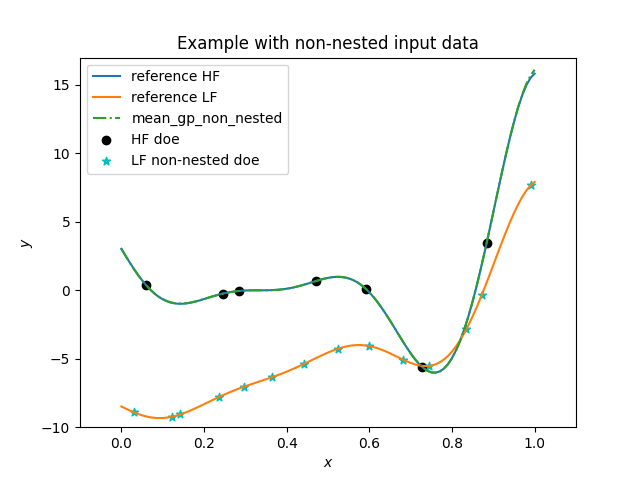
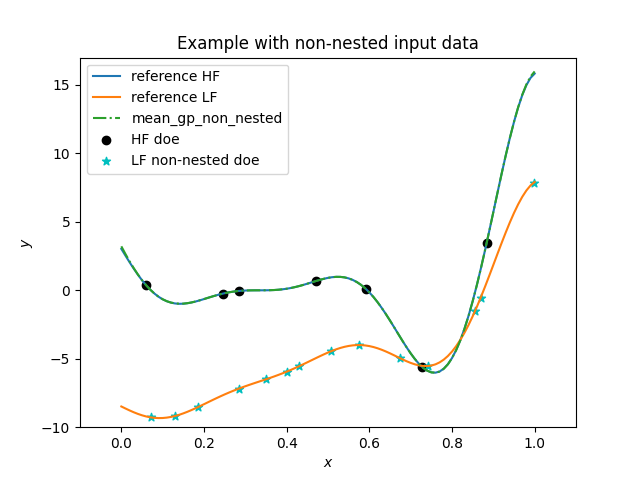
Update of the example in the documentation eliminating the usage of NestedLHS

diff --git a/smt/applications/tests/test_mfck.py b/smt/applications/tests/test_mfck.py
@@ -77,7 +77,6 @@ class TestMFCK(SMTestCase):
         import numpy as np
 
         from smt.applications.mfck import MFCK
-        from smt.applications.mfk import NestedLHS
         from smt.sampling_methods import LHS
 
         # low fidelity model
@@ -101,15 +100,10 @@ class TestMFCK(SMTestCase):
 
         # Problem set up
         xlimits = np.array([[0.0, 1.0]])
-        xdoes = NestedLHS(nlevel=2, xlimits=xlimits, random_state=rnd_state)
-
-        # Example with nested input data
-        xt_c, xt_e = xdoes(7)
-
-        # Evaluate the HF function
-        yt_e = hf_function(xt_e)
 
         # Example with non-nested input data
+        Obs_HF = 7  # Number of observations of HF
+        Obs_LF = 14  # Number of observations of LF
 
         # Creation of LHS for non-nested LF data
         sampling = LHS(
@@ -118,20 +112,22 @@ class TestMFCK(SMTestCase):
             random_state=rnd_state,
         )
 
-        xt_c_non = sampling(xt_c.shape[0])
+        xt_e_non = sampling(Obs_HF)
+        xt_c_non = sampling(Obs_LF)
 
         # Evaluate the LF function
+        yt_e_non = hf_function(xt_e_non)
         yt_c_non = lf_function(xt_c_non)
 
         sm_non_nested = MFCK(
-            theta0=xt_e.shape[1] * [0.5], theta_bounds=[1e-2, 100], corr="squar_exp"
+            theta0=xt_e_non.shape[1] * [0.5], theta_bounds=[1e-2, 100], corr="squar_exp"
         )
         sm_non_nested.options["lambda"] = 0.0  # Without regularization
 
         # low-fidelity dataset names being integers from 0 to level-1
         sm_non_nested.set_training_values(xt_c_non, yt_c_non, name=0)
         # high-fidelity dataset without name
-        sm_non_nested.set_training_values(xt_e, yt_e)
+        sm_non_nested.set_training_values(xt_e_non, yt_e_non)
 
         # train the model
         sm_non_nested.train()
@@ -145,7 +141,7 @@ class TestMFCK(SMTestCase):
         plt.plot(x, hf_function(x), label="reference HF")
         plt.plot(x, lf_function(x), label="reference LF")
         plt.plot(x, m_non_nested[1], linestyle="-.", label="mean_gp_non_nested")
-        plt.scatter(xt_e, yt_e, marker="o", color="k", label="HF doe")
+        plt.scatter(xt_e_non, yt_e_non, marker="o", color="k", label="HF doe")
         plt.scatter(
             xt_c_non, yt_c_non, marker="*", color="c", label="LF non-nested doe"
         )

diff --git a/doc/_src_docs/applications/mfck.rst b/doc/_src_docs/applications/mfck.rst
@@ -14,6 +14,7 @@ is a scaling/correlation factor (constant for MFCK) and :math:`\delta(\cdot)` is
 
 The additive AR1 formulation was first introduced by Kennedy and O'Hagan [1]_.
 While MFK follows the recursive formulation of Le Gratiet [2]_. MFCK uses ab block-wise matrix construction for :math:`n` levels of fidelity offering freedom in terms of data input assumptions.
+This formulation can use non-nested input data.
 
 References
 ----------
@@ -29,7 +30,6 @@ Usage
   import numpy as np
   
   from smt.applications.mfck import MFCK
-  from smt.applications.mfk import NestedLHS
   from smt.sampling_methods import LHS
   
   # low fidelity model
@@ -53,15 +53,10 @@ Usage
   
   # Problem set up
   xlimits = np.array([[0.0, 1.0]])
-  xdoes = NestedLHS(nlevel=2, xlimits=xlimits, random_state=rnd_state)
-  
-  # Example with nested input data
-  xt_c, xt_e = xdoes(7)
-  
-  # Evaluate the HF function
-  yt_e = hf_function(xt_e)
   
   # Example with non-nested input data
+  Obs_HF = 7  # Number of observations of HF
+  Obs_LF = 14  # Number of observations of LF
   
   # Creation of LHS for non-nested LF data
   sampling = LHS(
@@ -70,20 +65,22 @@ Usage
       random_state=rnd_state,
   )
   
-  xt_c_non = sampling(xt_c.shape[0])
+  xt_e_non = sampling(Obs_HF)
+  xt_c_non = sampling(Obs_LF)
   
   # Evaluate the LF function
+  yt_e_non = hf_function(xt_e_non)
   yt_c_non = lf_function(xt_c_non)
   
   sm_non_nested = MFCK(
-      theta0=xt_e.shape[1] * [0.5], theta_bounds=[1e-2, 100], corr="squar_exp"
+      theta0=xt_e_non.shape[1] * [0.5], theta_bounds=[1e-2, 100], corr="squar_exp"
   )
   sm_non_nested.options["lambda"] = 0.0  # Without regularization
   
   # low-fidelity dataset names being integers from 0 to level-1
   sm_non_nested.set_training_values(xt_c_non, yt_c_non, name=0)
   # high-fidelity dataset without name
-  sm_non_nested.set_training_values(xt_e, yt_e)
+  sm_non_nested.set_training_values(xt_e_non, yt_e_non)
   
   # train the model
   sm_non_nested.train()
@@ -97,7 +94,7 @@ Usage
   plt.plot(x, hf_function(x), label="reference HF")
   plt.plot(x, lf_function(x), label="reference LF")
   plt.plot(x, m_non_nested[1], linestyle="-.", label="mean_gp_non_nested")
-  plt.scatter(xt_e, yt_e, marker="o", color="k", label="HF doe")
+  plt.scatter(xt_e_non, yt_e_non, marker="o", color="k", label="HF doe")
   plt.scatter(
       xt_c_non, yt_c_non, marker="*", color="c", label="LF non-nested doe"
   )
